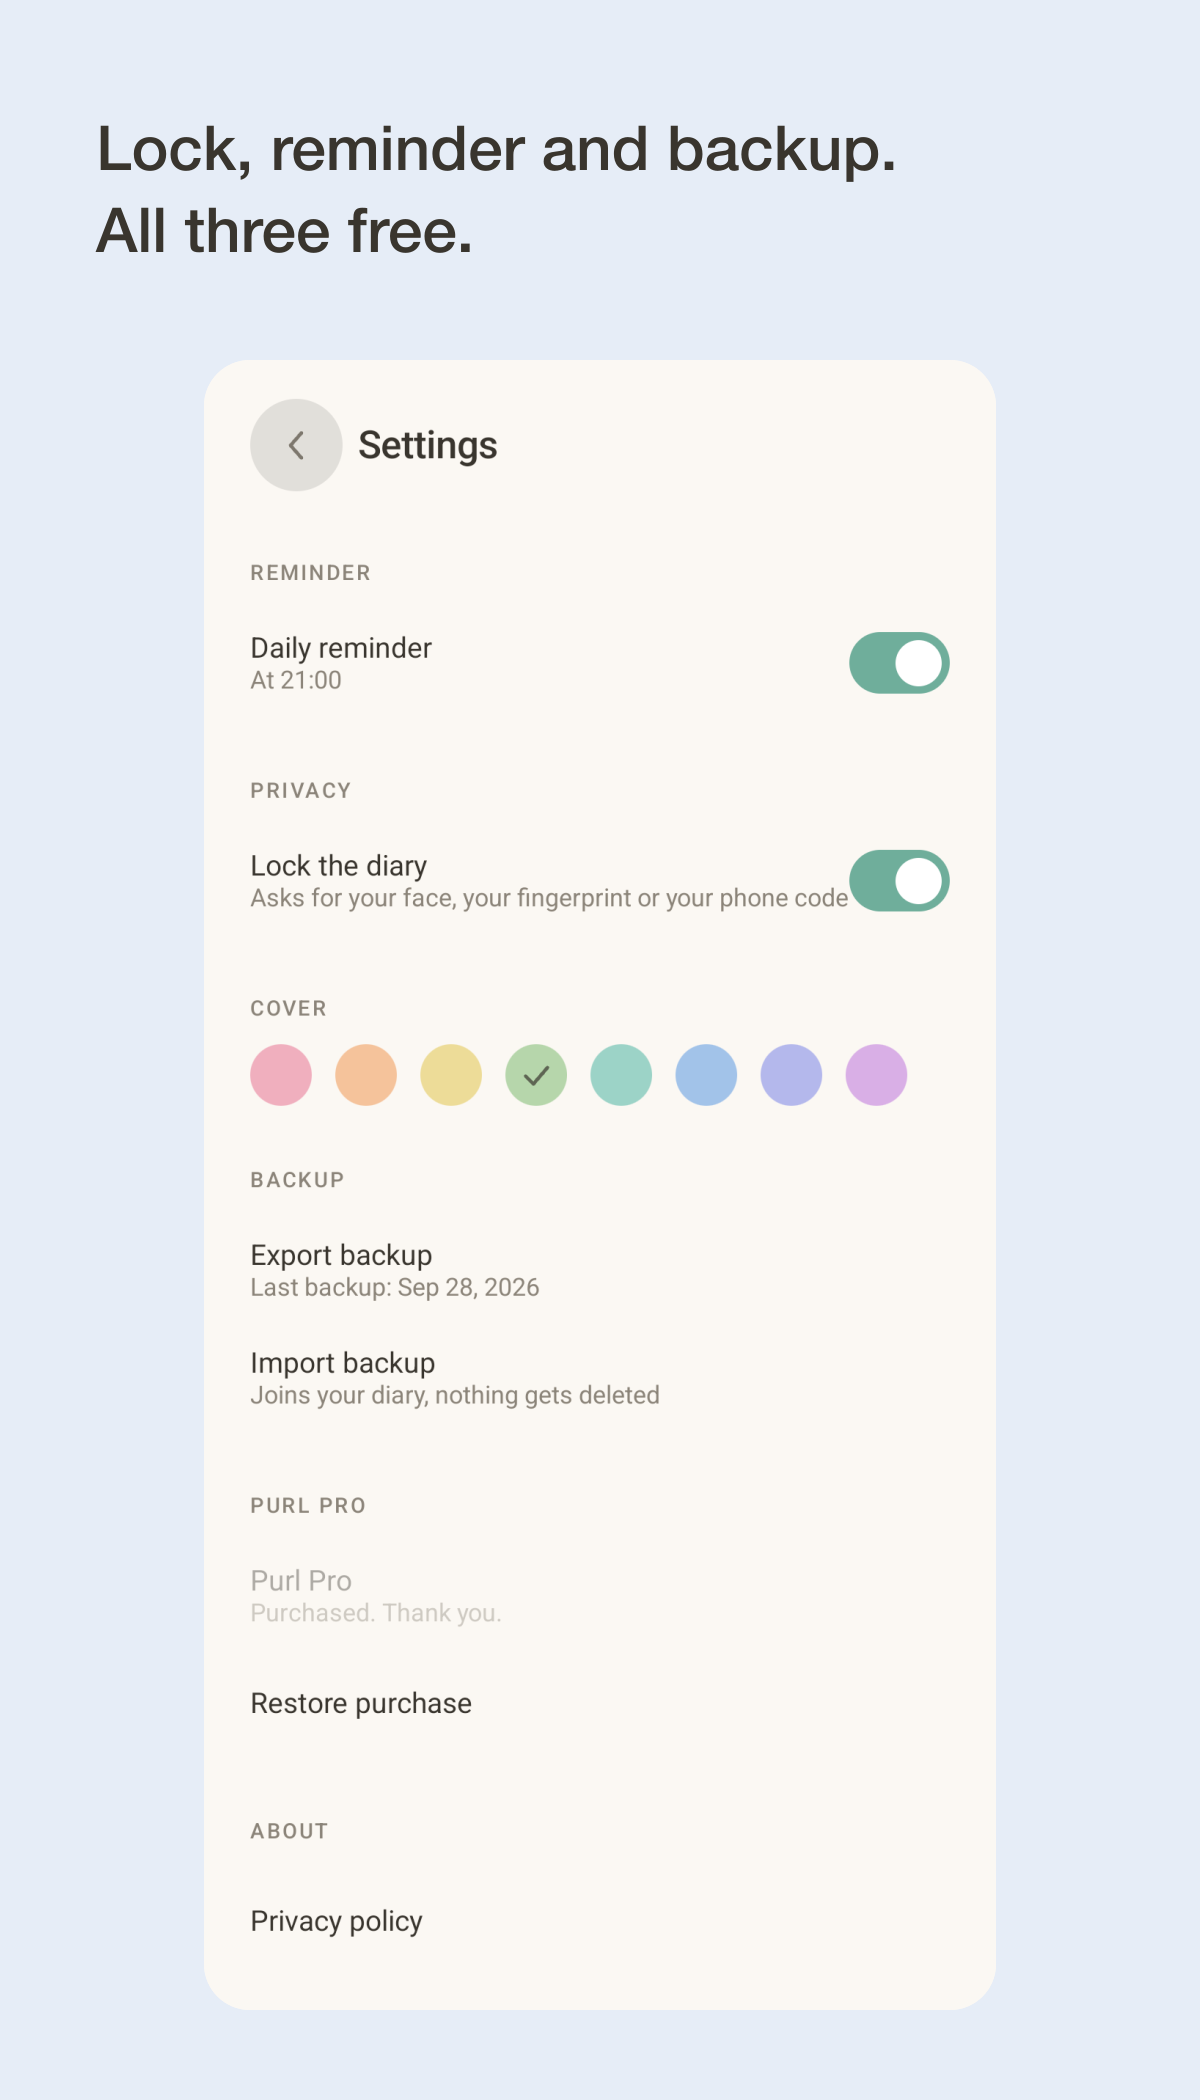
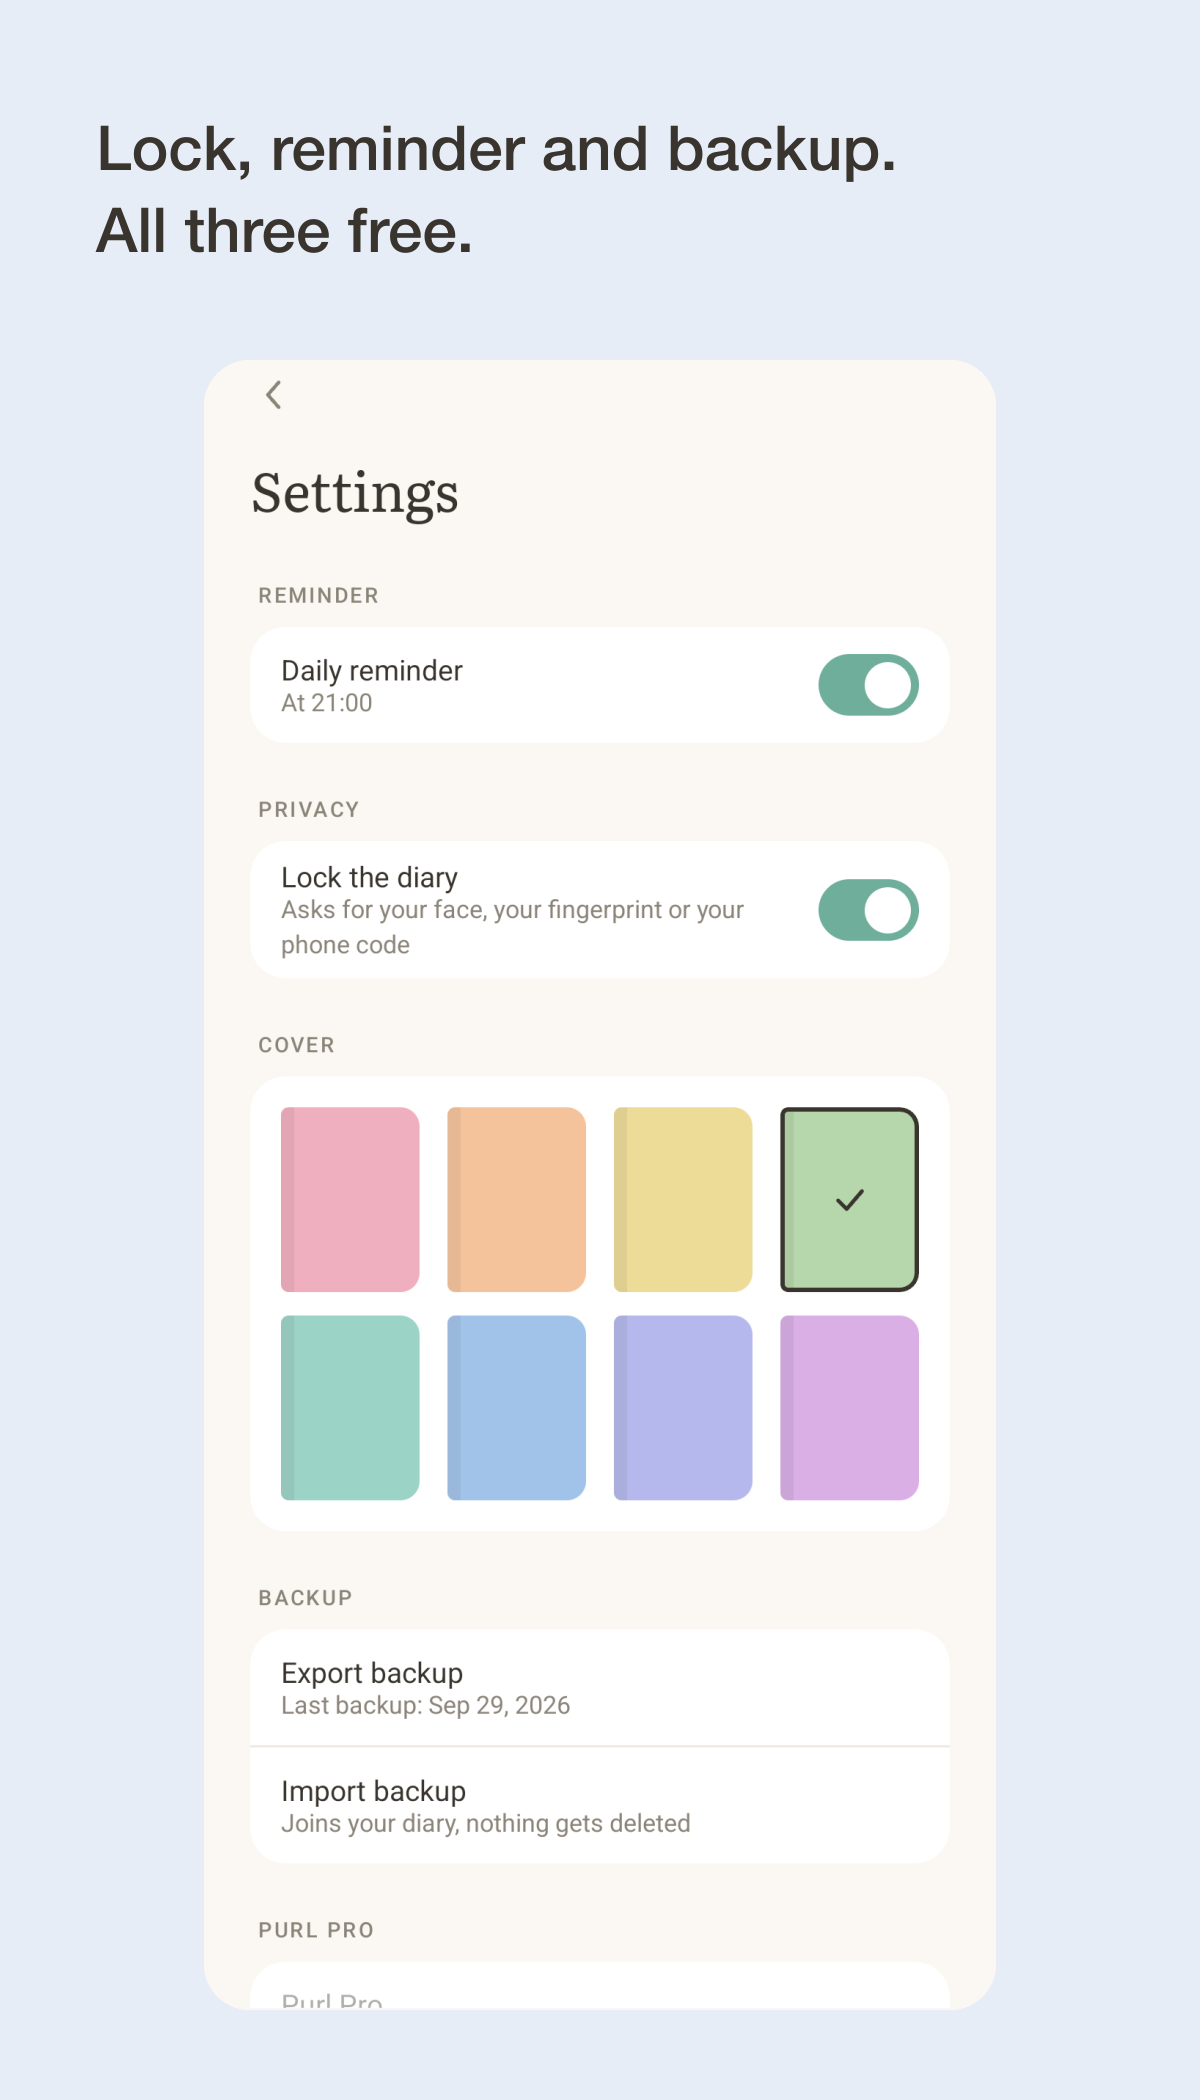
feat: capturas de Play con el rediseño
Las de la ficha enseñaban la interfaz de antes del rediseño con el punto
del icono, y una ficha que enseña otra app distinta de la que se instala
confunde justo a quien está decidiendo si la instala. Salen del diario de
demostración, como pide store/capturas.md, en en-US y es-ES.

La nota de la escena 06 recoge lo que costó sacarla: volver a meter el
diario apaga el bloqueo, y el segundo idioma no necesita su diario.

Claude-Session: https://claude.ai/code/session_effe13fb-3166-48b8-b6fd-4b4d9652496a

diff --git a/store/capturas.md b/store/capturas.md
@@ -45,7 +45,9 @@ Espera dentro `01_hoy.png` a `06_ajustes.png` y deja el resultado en
 
 La 06 necesita un bloqueo de dispositivo para poder encender el de Purl: en el emulador, un PIN en
 los ajustes del sistema; en el simulador, *Features > Face ID > Enrolled* y *Matching Face* cuando lo
-pida.
+pida. Va la última: volver a meter el diario apaga el bloqueo, porque el de demostración no lo lleva.
+La 06 del otro idioma no necesita su diario, Ajustes no enseña ninguna línea: se cierra la app, se
+cambia el idioma como en el apartado 5 y al abrirla se desbloquea.
 
 ## 3. Titulares
 
